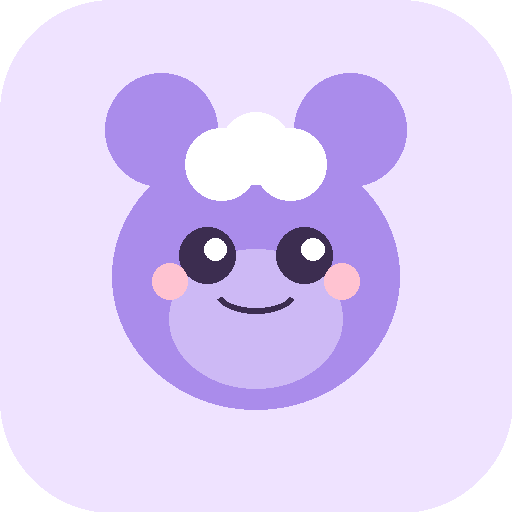
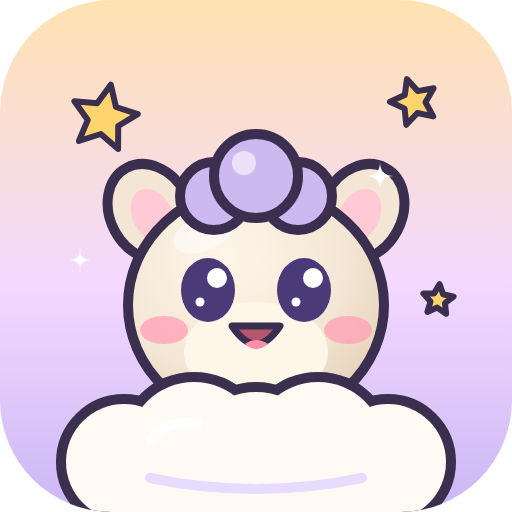
feat: novo icone e titulo Casa do Nubi

diff --git a/index.html b/index.html
@@ -10,7 +10,7 @@
   <link rel="manifest" href="manifest.webmanifest" />
   <link rel="icon" type="image/png" sizes="192x192" href="assets/icon-192.png" />
   <link rel="apple-touch-icon" href="assets/icon-192.png" />
-  <title>Nubi e a Casa Mágica</title>
+  <title>Casa do Nubi</title>
   <style>
     * { margin: 0; padding: 0; box-sizing: border-box; -webkit-tap-highlight-color: transparent; }
     html, body {

diff --git a/sw.js b/sw.js
@@ -1,6 +1,6 @@
 /* Service worker — joga 100% offline. Precache de todos os módulos e assets.
    Estratégia cache-first: ótimo para um jogo estático que não muda em runtime. */
-const CACHE = "nubi-v5";
+const CACHE = "nubi-v6";
 const ASSETS = [
   "./",
   "./index.html",

diff --git a/README.md b/README.md
@@ -1,4 +1,9 @@
-# Nubi e a Casa Mágica
+# Casa do Nubi
+
+<img src="assets/icon-192.png" width="96" alt="Ícone do Casa do Nubi" />
+
+Ícones (PWA e Android) são gerados de um único desenho em `scripts/make-icons.cjs`
+(precisa de Playwright: `NODE_PATH=<node_modules com playwright> node scripts/make-icons.cjs`).
 
 Jogo 2D offline para crianças de 3 a 5 anos. A criança brinca com um bichinho
 (Nubi, a coelhinha Lili ou o ursinho Tito) manipulando objetos pela casa. O
